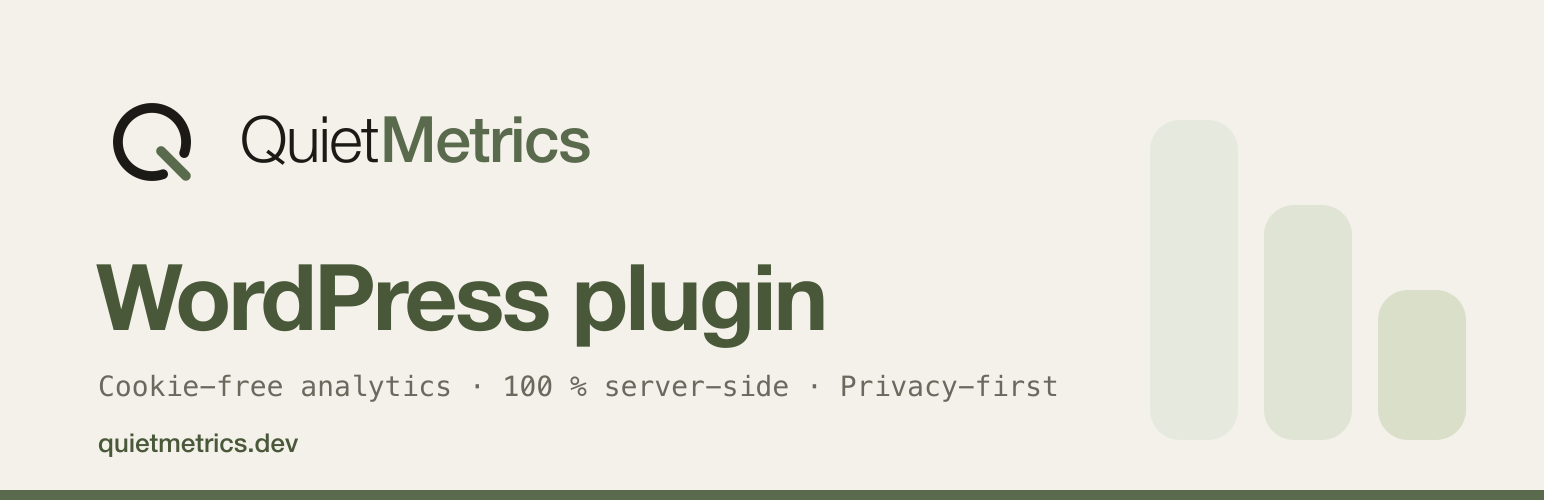
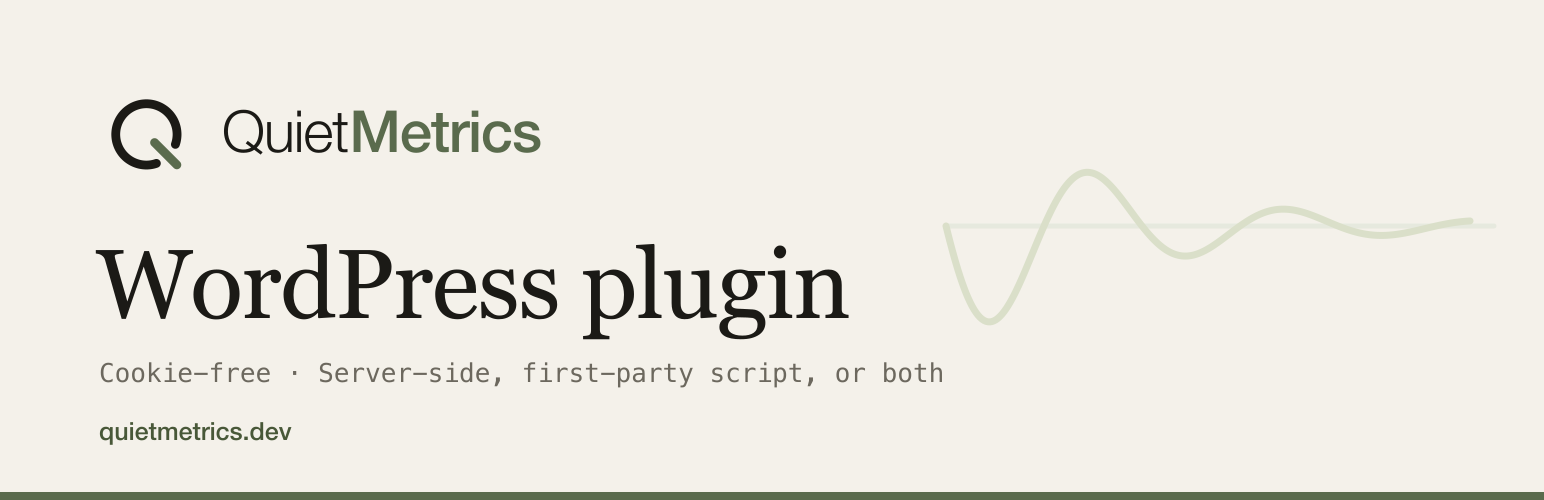
Aligner symfony et wordpress sur la charte, et rentrer les teintes dans la palette
BRANDPALETTETEST A ATTRAPE UNE DERIVE QUE J'AVAIS INTRODUITE. L'onde amortie
posee sur les bannieres employait deux verts inventes, #c9d2bc et #e2e6da,
absents de resources/brand/palette.json. C'est exactement ce que ce garde
existe pour empecher : une teinte saisie a la main qui s'ecarte de quelques
unites et dont plus personne ne sait, six mois plus tard, laquelle etait la
bonne. Les cinq bannieres reprennent desormais tints.tint-3 pour l'onde et
tint-1 pour la ligne de calme, deja declarees.

Symfony et WordPress recoivent la meme banniere que les trois autres, avec une
accroche qui leur est propre. Celle du plugin ne dit plus « 100 % server-side »
alors qu'il offre aussi le mode script first-party : elle annonce les deux.

Visuels du repertoire WordPress regeneres. L'ICONE PASSE AU SCEAU, le Q en
reserve dans un carre plein, et non plus la marque nue : a taille d'icone la
queue du Q fait deux pixels et la couleur du produit disparait, ce que la
charte dit explicitement.

Trouve en chemin : readme.txt annonçait sa premiere version en « = 1.0.0 = »
quand l'en-tete du plugin et le stable tag disaient tous deux 0.1.0. Reste des
v1.0.0 remplacees en juillet. Le plugin passe en 0.1.1 aux trois endroits qui
portent son numero.

diff --git a/quiet-metrics.php b/quiet-metrics.php
@@ -3,7 +3,7 @@
  * Plugin Name:       Quiet Metrics
  * Plugin URI:        https://quietmetrics.dev
  * Description:       Mesure d'audience sans cookies pour WordPress : script first-party, tracking serveur imblocable, ou les deux. Les données de mesure sont envoyées au service Quiet Metrics configuré dans les réglages.
- * Version:           0.1.0
+ * Version:           0.1.1
  * Requires at least: 5.5
  * Requires PHP:      7.4
  * Author:            La Boîte à Code
@@ -19,7 +19,7 @@ if ( ! defined( 'ABSPATH' ) ) {
 	exit;
 }
 
-define( 'QUIET_METRICS_VERSION', '0.1.0' );
+define( 'QUIET_METRICS_VERSION', '0.1.1' );
 define( 'QUIET_METRICS_PLUGIN_FILE', __FILE__ );
 define( 'QUIET_METRICS_PLUGIN_DIR', plugin_dir_path( __FILE__ ) );
 define( 'QUIET_METRICS_PLUGIN_URL', plugin_dir_url( __FILE__ ) );

diff --git a/CHANGELOG.md b/CHANGELOG.md
@@ -7,6 +7,17 @@ Format: [Keep a Changelog](https://keepachangelog.com/en/1.1.0/); versioning: [S
 
 Full pre-publication review pending (the core PHP SDK and the Laravel bridge already went through theirs); the embedded tracker copy must be resynchronised with its source as part of it.
 
+## [0.1.1] - 2026-08-27
+
+Artwork only. The plugin code is unchanged since 0.1.0.
+
+### Changed
+- Banner redrawn to the current brand, and its tagline now states what the plugin actually offers: server-side, first-party script, or both.
+- Directory assets regenerated (`banner-1544x500`, `banner-772x250`, icons). The icon now uses the brand seal, the Q in reserve on a filled square, instead of the bare mark whose tail disappears at icon sizes.
+
+### Fixed
+- `readme.txt` announced its first release as `= 1.0.0 =` while the plugin header and the stable tag both said `0.1.0`.
+
 ## [0.1.0] - 2026-07-24
 
 First tagged snapshot (private beta).
